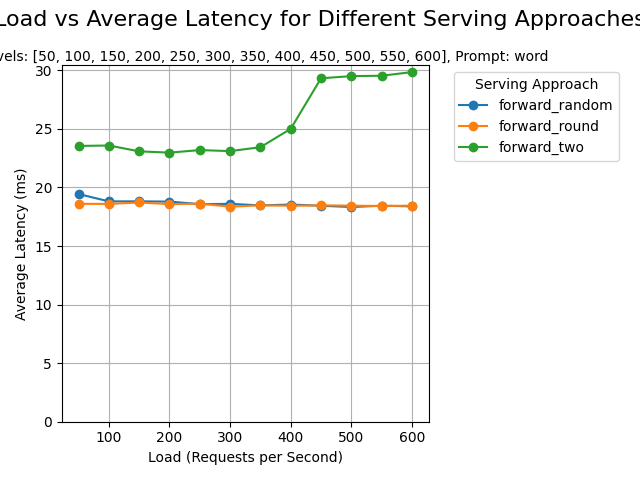
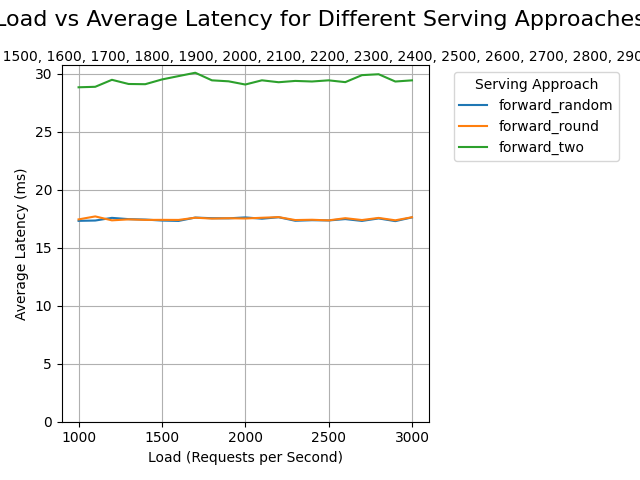
removed dots from the graph

diff --git a/measurement/measure.py b/measurement/measure.py
@@ -40,6 +40,7 @@ def close_all_processes():
 
 def calculate_cdf(num_requests = 1, prompt = ""):
     data = {
+    # comment this to remove forward_all to the measurement 
     "forward_all" : [],
     "forward_random" : [], 
     "forward_two" : [], 
@@ -73,7 +74,7 @@ def calculate_cdf(num_requests = 1, prompt = ""):
         cdf = np.arange(1, len(sotr) + 1) / len(sotr)
 
         # Plot CDF
-        plt.plot(sotr, cdf, marker='o', label=f'Port {serving_approach}')
+        plt.plot(sotr, cdf, marker=None , label=f'Port {serving_approach}')
 
         # Set x-axis limits conditionally
         if serving_approach == "forward_all":
@@ -99,16 +100,20 @@ def calculate_cdf(num_requests = 1, prompt = ""):
     close_all_processes()
     
 def measure_load_vs_latency(load_levels, prompt=""):
-    # Hardcoded serving approaches
-    serving_approaches = ["forward_all", "forward_random", "forward_round", "forward_two"]
-    # serving_approaches = ["forward_random", "forward_round", "forward_two"]
+    # comment this to remove forward_all from the measurement 
+    serving_approaches = [
+                        "forward_all",
+                        "forward_random",
+                        "forward_round",
+                        "forward_two"]
+
     # Start the backend and api servers
     start_serv()
+
     # Dictionary to store latencies for each serving approach
     latencies_by_approach = {approach: [] for approach in serving_approaches}
 
     # Create and start threads for each combination of serving approach and load level
-    #loops through the serving approaches
     for serving_approach in serving_approaches:
         #closes any port 9000 to let the proxy start clean
         if(is_port_in_use(9000)):
@@ -121,7 +126,7 @@ def measure_load_vs_latency(load_levels, prompt=""):
 
             # Create a thread to similate concurrent requests
             threads = []
-            for _ in range(load - 1):
+            for _ in range(load):
                 thread = threading.Thread(target=send_request)
                 thread.start()
                 threads.append(thread)
@@ -136,7 +141,6 @@ def measure_load_vs_latency(load_levels, prompt=""):
             latencies_by_approach[serving_approach].append((load, np.mean(data)))
             kill_process_by_port(9000)
 
-        # Plot for all serving approaches except 'forward_all'
     print(f"latencies_by_approach: {latencies_by_approach}")
 
     # Create a single plot for all serving approaches
@@ -146,7 +150,7 @@ def measure_load_vs_latency(load_levels, prompt=""):
         loads, avg_latencies = zip(*sorted(latencies))
         
         # Plot the data
-        plt.plot(loads, avg_latencies, marker='o', label=f'{serving_approach}')
+        plt.plot(loads, avg_latencies, marker=None, label=f'{serving_approach}')
         
         # Set y-axis limits conditionally
         if serving_approach == "forward_all":
@@ -189,7 +193,6 @@ def start_serv():
             print(f"Failed to start server on port {port}: {e}")
 
     # Open the Flask application
-
     for port in embedded_port:
         if is_port_in_use(port):
             print(f"Port {port} is in use. Skipping...")
@@ -206,11 +209,11 @@ def start_serv():
 
 def send_request():
     try:
-        #load
         response = requests.get("http://localhost:9000")
 
         data = response.json().get('Latency', [])
         return data
+
     except Exception as e:
         close_all_processes()
         print(f"Failed to get latencies: {e}")
